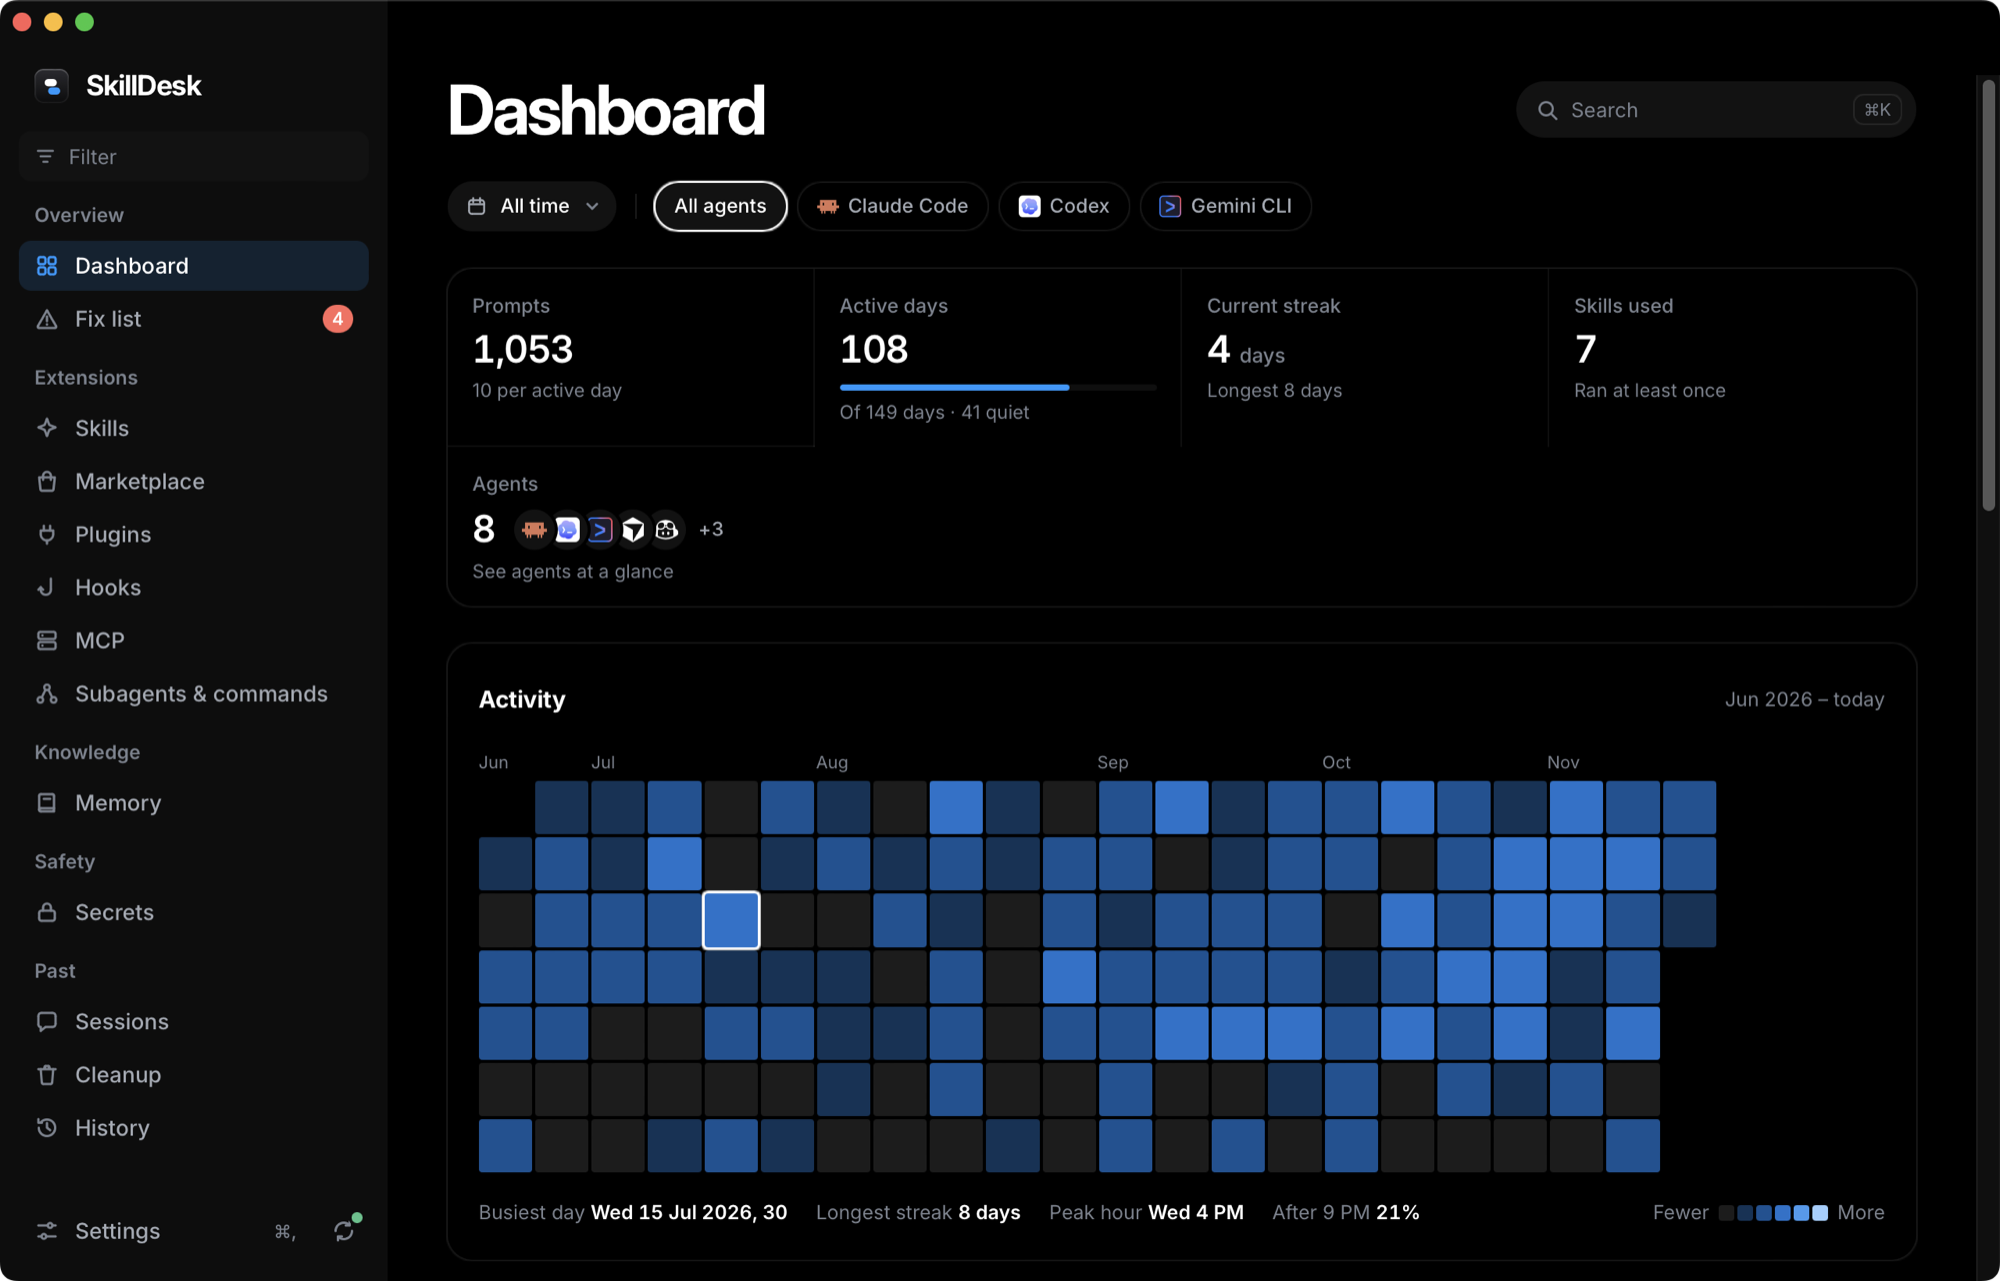
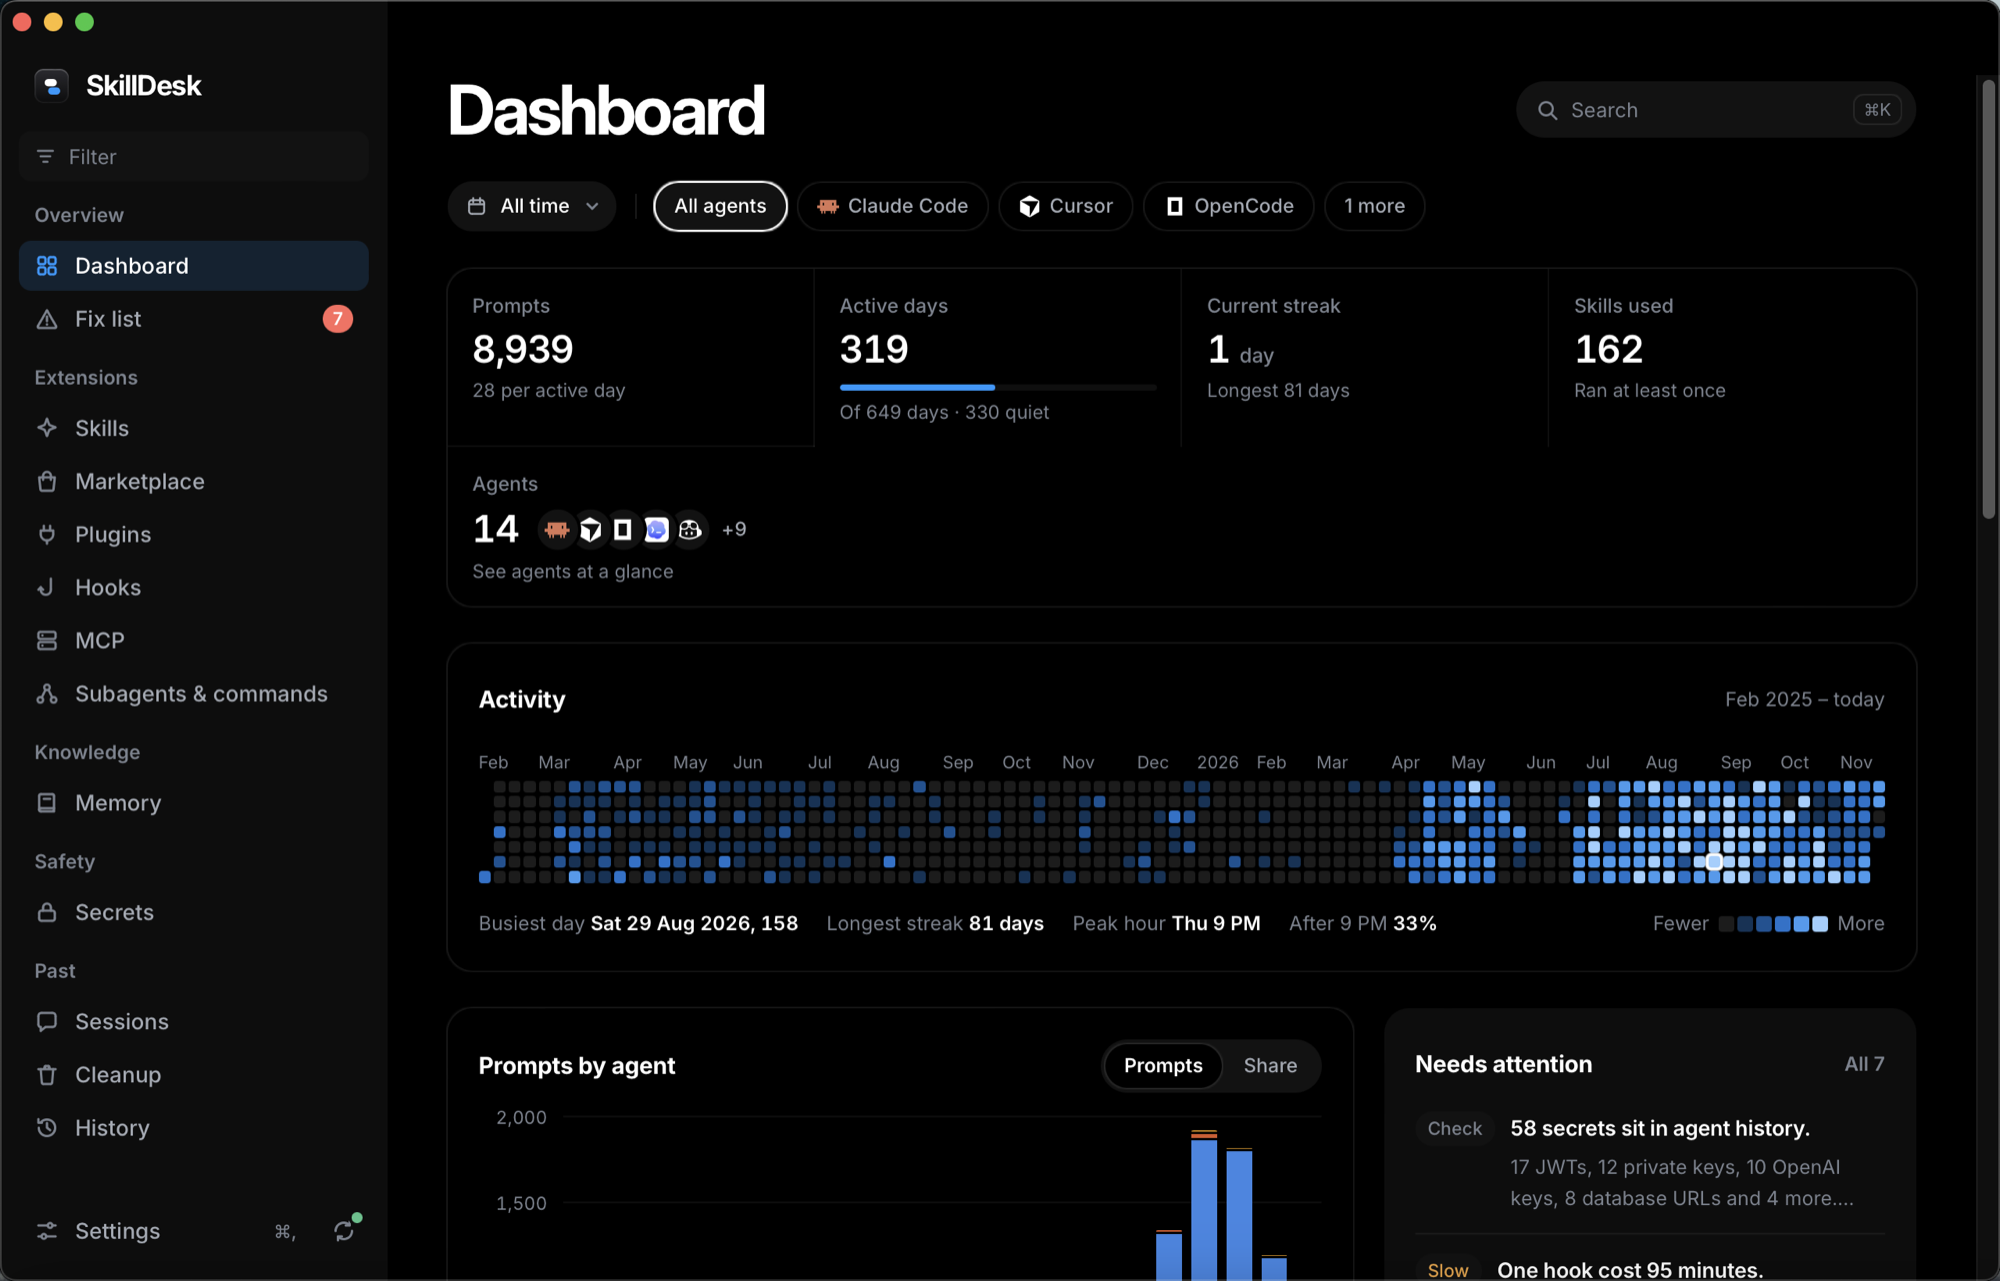
docs: refresh README with new screenshots and tighter copy

diff --git a/README.md b/README.md
@@ -1,84 +1,99 @@
 <div align="center">
 
-<img src="src-tauri/icons/128x128@2x.png" width="128" height="128" alt="SkillDesk icon">
+<img src="src-tauri/icons/128x128@2x.png" width="112" height="112" alt="SkillDesk icon">
 
 # SkillDesk
 
-**See everything your coding agents know and keep, then fix what's broken.**
+**Everything your coding agents know and keep, in one place.**
 
-One Mac app for the skills, plugins, hooks, MCP servers, memory, sessions, and secrets of Claude Code, Cursor, Codex, OpenCode, Gemini CLI, GitHub Copilot, and 50 more agents.
+A Mac app that reads the skills, plugins, hooks, MCP servers, memory, sessions, and secrets of every coding agent you use, then shows you what to fix.
 
 [![CI](https://github.com/kushalBanda/skilldesk/actions/workflows/ci.yml/badge.svg)](https://github.com/kushalBanda/skilldesk/actions/workflows/ci.yml)
 [![Latest release](https://img.shields.io/github/v/release/kushalBanda/skilldesk?label=release)](https://github.com/kushalBanda/skilldesk/releases/latest)
 [![License: MIT](https://img.shields.io/badge/license-MIT-blue)](LICENSE)
 ![macOS 12+](https://img.shields.io/badge/macOS-12%2B-black?logo=apple)
 
-[Download](https://github.com/kushalBanda/skilldesk/releases/latest) · [What it finds](#what-it-finds) · [Privacy](#privacy-and-safety) · [CLI](#command-line-tool) · [Contributing](CONTRIBUTING.md)
+**[Download for macOS](https://github.com/kushalBanda/skilldesk/releases/latest)**
+
+[Features](#features) · [Agents](#supported-agents) · [Install](#install) · [CLI](#command-line-tool) · [Privacy](#privacy-and-safety)
+
+<br>
+
+<img src=".github/assets/dashboard.png" width="900" alt="SkillDesk Dashboard: 8,939 prompts, 319 active days, 162 skills used, 14 agents, and two years of activity">
 
 </div>
 
-<p align="center">
-  <img src=".github/assets/dashboard.png" width="900" alt="SkillDesk Dashboard: prompt totals, active days, streak, skills used, and five months of activity across Claude Code, Codex, and Gemini CLI">
-</p>
+## Why
 
----
+Each agent keeps its own skills folder, hooks file, MCP config, and session history, and shows you little of it. After a few months you have skills nothing loads, hooks that quietly cost minutes a day, MCP servers you tried once, and an API key pasted into a prompt.
 
-You installed a skill for Claude Code in March. A hook in June. Three MCP servers for Cursor, two of which you tried once. Codex has its own skills folder now, and so does Gemini CLI. Somewhere in six months of session history there's an API key you pasted into a prompt.
+SkillDesk reads the real files of every agent on your Mac and puts them in one place. Every number opens the items behind it. Every change goes to the Trash or a backup first, with Undo.
 
-Each agent shows you its own corner, if it shows you anything. SkillDesk reads the real files of every agent on your Mac and puts them in one place. Every number links to the file and line it came from. Every change it makes goes to the Trash first and has an Undo.
+## Features
 
-## What it finds
+### Fix list
 
-**Dashboard.** Totals across every agent, what changed since the last scan, and the fixes that matter most.
+<img src=".github/assets/fixes.png" width="900" alt="Fix list: 58 secrets in agent history, a hook that cost 95 minutes, a removed plugin with 7,508 uses, and duplicate memories">
 
-**Fix list.** A ranked list of problems, each with the evidence and a one-click fix:
+A ranked list of problems, each with its evidence and a fix:
 
-| Problem | What SkillDesk checks |
+| Problem | How SkillDesk finds it |
 | --- | --- |
-| Broken hooks | Hooks that fail on every run, or call a script that's gone |
-| Slow hooks | Hooks that cost you minutes, measured from their real run times (p95) |
-| Dangling skill links | Links in an agent's skills folder that point at nothing |
-| Skills that never ran | Claude Code skills that never ran, per Claude's own usage counts |
-| Ghost plugins | Plugins you used often that are no longer installed |
-| Unused marketplaces | Plugin marketplaces that supply nothing you use, and the disk they take |
-| Silent MCP servers | MCP servers never called, though each adds its tools to every prompt |
-| Duplicate memories | The same rule saved in several projects, ready to merge into one global rule |
-| Secrets in history | API keys and tokens sitting in session transcripts |
-| Reclaimable disk | Old caches, logs, and sessions you can safely move to the Trash |
+| Broken hooks | Fail on every run, or call a script that's gone |
+| Slow hooks | Total time and p95 from real run logs |
+| Dangling skill links | Links in a skills folder that point at nothing |
+| Skills that never ran | Claude Code's own usage counts |
+| Ghost plugins | Used often, no longer installed |
+| Unused marketplaces | Supply nothing you use, still take disk |
+| Silent MCP servers | Never called, yet their tools load into every prompt |
+| Duplicate memories | Same rule saved in several projects |
+| Secrets in history | API keys and tokens in session transcripts |
+| Reclaimable disk | Old caches, logs, and sessions |
 
-**Extensions.** Skills, plugins, hooks, MCP servers, subagents, and slash commands for every agent, side by side. See which agent has which skill, and link a skill into another agent's folder with one click.
+### Hooks and MCP servers
 
-**Marketplace.** Search [skills.sh](https://skills.sh) and GitHub, read a skill before you install it, and install it into the agents you pick.
+<table>
+<tr>
+<td width="50%"><img src=".github/assets/hooks.png" alt="Hooks: 123.7 minutes across 36,342 runs, with time per hook"></td>
+<td width="50%"><img src=".github/assets/mcp.png" alt="MCP: 20 servers, 12,063 calls, 3 never called, 6 holding keys"></td>
+</tr>
+<tr>
+<td>See where hook time goes, per hook and per agent, and turn hooks off with Undo.</td>
+<td>Calls and last use per server, which ones hold keys, and an on/off switch per agent.</td>
+</tr>
+</table>
 
-**Memory.** Every `CLAUDE.md`, `AGENTS.md`, `GEMINI.md`, and rules file your agents load, in one list.
+### And the rest
 
-**Secrets.** Private keys, plus Anthropic, OpenAI, Stripe, AWS, GitHub, Slack, and Google keys, JWTs, and database URLs found in agent history. Values stay masked. Touch ID reveals one; Redact replaces it in every file that holds it.
-
-**Sessions.** Search past prompts across every agent, then resume a session or open its project.
-
-**Cleanup.** Disk use by agent, and what can go to the Trash.
-
-**History.** Every change SkillDesk made, newest first, each with Undo.
-
-**Menu bar.** The fix count and the top three fixes, without opening the window.
+- **Skills.** Every skill across every agent, which agents load it, and how often it ran. Link a skill into another agent in one click.
+- **Plugins.** Installed plugins, marketplaces, and old cache versions.
+- **Subagents and commands.** Side by side for every agent.
+- **Marketplace.** Search [skills.sh](https://skills.sh) and GitHub, read a skill, install it into the agents you pick.
+- **Memory.** Every `CLAUDE.md`, `AGENTS.md`, `GEMINI.md`, and rules file your agents load.
+- **Secrets.** Private keys, Anthropic, OpenAI, Stripe, AWS, GitHub, Slack, and Google keys, JWTs, and database URLs. Masked; Touch ID reveals one; Redact removes it from the text files that hold it.
+- **Sessions.** Search past prompts across agents and resume a session.
+- **Cleanup.** Disk use by agent, and what can go to the Trash.
+- **History.** Every change SkillDesk made, each with Undo.
+- **Menu bar.** The fix count and top fixes without opening the window.
+- **⌘K.** Jump to any screen, item, or action.
 
 ## Supported agents
 
-**Full support** (skills, plugins, hooks, MCP servers, subagents, commands, memory, sessions, and secrets):
+**Full support**: skills, plugins, hooks, MCP servers, subagents, commands, memory, sessions, and secrets.
 
 | Agent | Reads |
 | --- | --- |
 | Claude Code | `~/.claude`, `~/.claude.json` |
-| Cursor | `~/.cursor`, Cursor's `state.vscdb` (read-only) |
+| Cursor | `~/.cursor`, `state.vscdb` (read-only) |
 | Codex | `~/.codex` |
 | OpenCode | `~/.config/opencode`, `~/.local/share/opencode` |
 | Gemini CLI | `~/.gemini` |
 | GitHub Copilot CLI | `~/.copilot` |
 
-Plus the shared `~/.agents/skills` folder that several agents read.
+Plus the shared `~/.agents/skills` folder.
 
 <details>
-<summary><b>Skills support</b> for 50 more agents: detect, list, and link skills</summary>
+<summary><b>Skills support for 50 more agents</b>: detect, list, and link skills</summary>
 
 <br>
 
@@ -86,28 +101,31 @@ Amp, Antigravity, AdaL, Augment, AutoClaw, Cline, CodeBuddy, Command Code, Conti
 
 </details>
 
-Using an agent that isn't listed? Add it in **Settings > Custom agents** by pointing at its skills folder, or [ask for it](https://github.com/kushalBanda/skilldesk/issues/new?template=feature_request.yml).
+Agent missing? Add it in **Settings > Custom agents** by pointing at its skills folder, or [request it](https://github.com/kushalBanda/skilldesk/issues/new?template=feature_request.yml).
 
 ## Install
 
-Requires macOS 12 or later, on Apple silicon or Intel.
+macOS 12 or later, Apple silicon or Intel.
 
 1. Download `SkillDesk_<version>_universal.dmg` from the [latest release](https://github.com/kushalBanda/skilldesk/releases/latest).
-2. Open it and drag SkillDesk to Applications.
-3. Open SkillDesk. The first scan takes about two minutes. Secrets and Cursor's database keep scanning in the background.
+2. Drag SkillDesk to Applications and open it.
+3. The first scan takes about two minutes. Secrets and Cursor's database finish in the background.
 
 > [!NOTE]
-> Until SkillDesk is notarized by Apple, macOS may say the app "is damaged" or "can't be opened". It isn't damaged; it's unsigned. Clear the download flag once, then open it as usual:
+> Until SkillDesk is notarized by Apple, macOS may say the app "is damaged". It's unsigned, not damaged. Clear the download flag once:
 >
 > ```sh
 > xattr -cr /Applications/SkillDesk.app
 > ```
 
-SkillDesk updates itself. It checks GitHub Releases on launch, shows a dot on Settings when a version is ready, and installs it when you click **Install and restart**. Each update is signed, and the app refuses one that doesn't verify.
+SkillDesk updates itself from GitHub Releases. Updates are signed, and the app refuses one that doesn't verify.
 
-### Build from source
+<details>
+<summary><b>Build from source</b></summary>
 
-You need [Rust](https://rustup.rs) 1.89+ and Node 22.
+<br>
+
+Needs [Rust](https://rustup.rs) 1.89+ and Node 22.
 
 ```sh
 git clone https://github.com/kushalBanda/skilldesk.git
@@ -116,76 +134,74 @@ npm ci
 npm run app:build
 ```
 
-The app lands in `target/release/bundle/macos/SkillDesk.app`. See [CONTRIBUTING.md](CONTRIBUTING.md) for the dev setup.
+The app lands in `target/release/bundle/macos/SkillDesk.app`. Dev setup is in [CONTRIBUTING.md](CONTRIBUTING.md).
+
+</details>
 
 ## Command-line tool
 
-The app carries a `skilldesk` command that uses the same core and database. Install it from **Settings > Command-line tool**; it goes to `~/.local/bin/skilldesk`.
+The app ships a `skilldesk` command on the same core and database. Install it from **Settings > Command-line tool** (to `~/.local/bin`).
 
 ```sh
-skilldesk scan                    # scan every agent and refresh the cache
+skilldesk scan                    # scan every agent
 skilldesk fixes                   # the ranked Fix list
-skilldesk list skill              # every skill, with the agents that load it
-skilldesk sessions "rate limit"   # past prompts that mention "rate limit"
-skilldesk secrets                 # secrets found in history, masked
+skilldesk list skill              # every skill and the agents that load it
+skilldesk sessions "rate limit"   # search past prompts
+skilldesk secrets                 # secrets in history, masked
 skilldesk storage                 # disk use by agent
-skilldesk agents --all            # every agent SkillDesk knows, found or not
 ```
 
-Commands that change files show the plan and stop. Add `--yes` to apply:
+Commands that change files print the plan and stop. Add `--yes` to apply:
 
 ```sh
-skilldesk link pdf-tools cursor          # shows what it would copy
-skilldesk link pdf-tools cursor --yes    # copies it into ~/.cursor/skills
-skilldesk history                        # the change, with its id
-skilldesk undo <id> --yes                # puts it back
+skilldesk link pdf-tools cursor --yes
+skilldesk history
+skilldesk undo <id> --yes
 ```
 
-Every command takes `--json`, so you can pipe SkillDesk into `jq`, a script, or another agent.
+Every command takes `--json`, for `jq`, scripts, or another agent.
 
 ## Privacy and safety
 
-SkillDesk reads files that hold your prompts, settings, and credentials. Here's what it does with them.
+SkillDesk reads files that hold your prompts, settings, and credentials. Here is what it does with them.
 
-- **No telemetry, no account.** Nothing about your Mac or your files leaves it.
-- **Two kinds of network use, both visible.** The Marketplace talks to skills.sh and GitHub when you open it. The updater asks GitHub Releases for a newer version once per launch; turn that off in **Settings > App updates**. Scans never touch the network. CI checks that only the Marketplace code and the updater can use the network.
-- **Secrets stay masked.** SkillDesk stores a salted hash and the known prefix of each secret, never the value. Seeing a full value takes Touch ID or your password.
-- **Agent databases are read-only.** Cursor's `state.vscdb` and other agent stores open read-only and immutable. SkillDesk never writes them, never locks them.
-- **Every change is a plan first.** You see exactly which files change before anything happens. Replaced or removed files go to the Trash or a backup, and History keeps an Undo for each change.
-- **The UI never touches files.** The window can only call the Rust core, which owns every read and write.
+- **No telemetry, no account.** Nothing about your files leaves your Mac.
+- **Network only where you see it.** The Marketplace talks to skills.sh and GitHub. The updater checks GitHub Releases once per launch and can be turned off. Scans never use the network, and CI enforces it.
+- **Secrets stay masked.** SkillDesk stores a salted hash and the known prefix, never the value. Revealing one takes Touch ID or your password.
+- **Agent databases are read-only.** Cursor's `state.vscdb` and other stores are opened read-only and never locked.
+- **Plan first, Undo after.** You see which files change before anything happens. Removed files go to the Trash or a backup, and History keeps an Undo.
+- **The UI never touches files.** Only the Rust core reads and writes.
 
-SkillDesk keeps its own cache and History in `~/Library/Application Support/SkillDesk`. Delete that folder to reset it.
-
-Found a security problem? See [SECURITY.md](SECURITY.md).
+App data lives in `~/Library/Application Support/SkillDesk`. Delete it to reset. Security reports: [SECURITY.md](SECURITY.md).
 
 ## FAQ
 
-**Does SkillDesk change my agents' config on its own?**
-No. It reads on its own and writes only when you click a fix, link, install, or cleanup action. Each one shows its plan first.
+**Does it change my agents' config on its own?**
+No. It writes only when you click a fix, link, install, or cleanup, and shows the plan first.
 
-**Will it slow down my agents?**
-No. SkillDesk watches agent folders for changes and rescans in the background. It never runs inside an agent.
+**Does it slow my agents down?**
+No. It watches agent folders and rescans in the background. It never runs inside an agent.
 
-**Does it work on Linux or Windows?**
-Not yet. The core is plain Rust, but agent paths, the Trash, and Touch ID are macOS-specific today.
+**Linux or Windows?**
+Not yet. The core is plain Rust, but agent paths, the Trash, and Touch ID are macOS-specific.
 
-**Why can't it show costs in dollars?**
-Agents don't record prices reliably in local files, and a wrong number is worse than none. SkillDesk shows hook time and disk use instead, which it can measure.
+**Why no costs in dollars?**
+Agents don't record prices reliably in local files. SkillDesk shows what it can measure: hook time and disk use.
 
 ## Built with
 
 [Tauri 2](https://tauri.app), Rust, SQLite, React 19, TanStack Query, and Tailwind CSS 4.
 
 ```
-crates/core   every scan, parser, rule, and write; no UI types
+crates/core   scans, parsers, rules, and every write
 crates/cli    the skilldesk command
-src-tauri     the app shell, tray, and window
-src           the React UI
+src-tauri     app shell, tray, and window
+src           React UI
 ```
 
 ## Contributing
 
-Bug reports, agent requests, and pull requests are welcome. Start with [CONTRIBUTING.md](CONTRIBUTING.md). Please follow the [code of conduct](CODE_OF_CONDUCT.md).
+Bug reports, agent requests, and pull requests are welcome. Start with [CONTRIBUTING.md](CONTRIBUTING.md) and the [code of conduct](CODE_OF_CONDUCT.md).
 
 ## License
 
